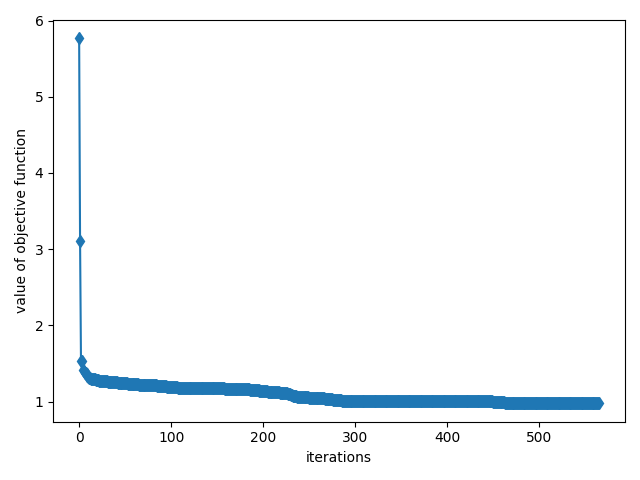
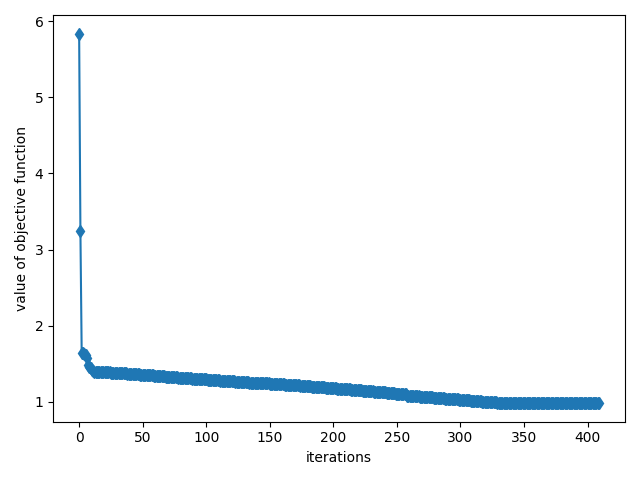
right hessian

diff --git a/LineSearcher.py b/LineSearcher.py
@@ -88,7 +88,7 @@ class LineSearcher(object):
         grad = self.jacobian_matrix.reshape((1, -1))
         line_searching_direction = grad.T
         if self.method == 'Newton':
-            hessian = self.hessian()
+            hessian = self.hessian_matrix
             # check if the hessian matrix is positive definite
             try:
                 np.linalg.cholesky(hessian.detach().numpy())
@@ -133,15 +133,18 @@ class LineSearcher(object):
         self.__init__(self.func, params, self.mode, self.method, self.c1, self.c2, self.s)
 
     # TODO: fix this function later
-    def make_it_positive_definite(self):
-        self.hessian_matrix = torch.diag(self.jacobian_matrix.reshape((-1))) @ torch.diag(self.jacobian_matrix.reshape(-1))
+    def make_it_positive_definite(self, scale=0.01):
+        eigenvalues, eigenvectors = np.linalg.eig(self.hessian_matrix.detach().numpy())
+        l = np.linalg.norm(eigenvalues, ord=1)
+        eigenvalues += scale * l
+        self.hessian_matrix = eigenvectors @ np.diag(eigenvalues) @ np.linalg.inv(eigenvectors)
         try:
-            np.linalg.cholesky(self.hessian_matrix.detach().numpy())
+            np.linalg.cholesky(self.hessian_matrix)
         except LinAlgError:
             # if the hessian matrix is not positive definite, then make it positive definite.
             print("The Hessian matrix is not positive definite. Now trying to correct it...")
             self.hessian_matrix = self.make_it_positive_definite()
-        return self.hessian_matrix
+        return torch.tensor(self.hessian_matrix, dtype=data_type)
 
     def grad_norm(self):
         return torch.norm(self.jacobian_matrix)
